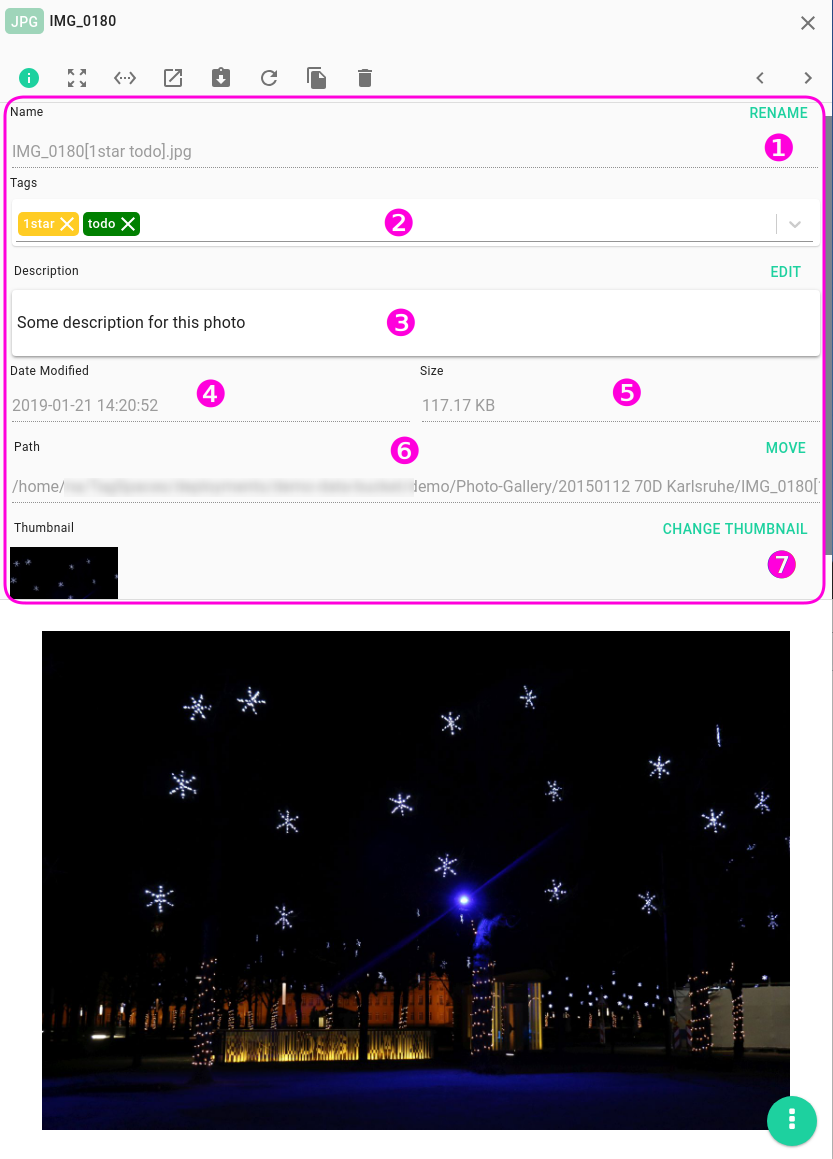
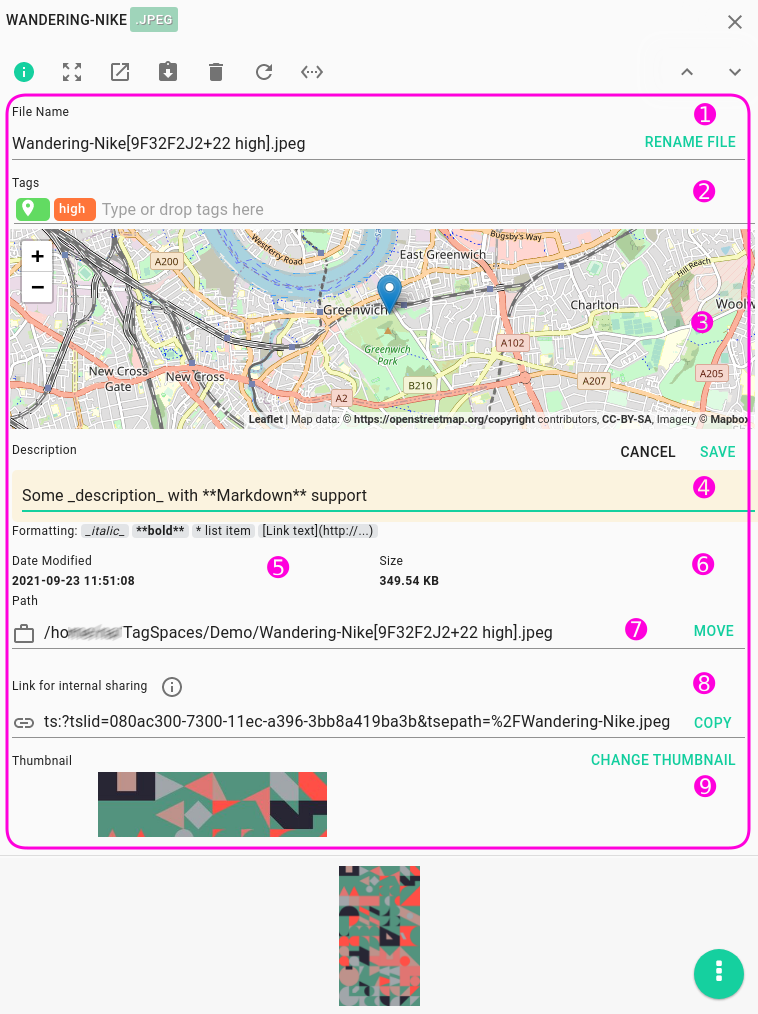
updating screenshot and ui area

diff --git a/docs/ui/userinterface.md b/docs/ui/userinterface.md
@@ -2,9 +2,7 @@
 title: User Interface Areas
 ---
 
-import { ProFeature } from '@site/src/components/CommonBlocks';
-
-## Start screen
+import { ProFeature, CenteredImage } from '@site/src/components/CommonBlocks';
 
 TagSpaces opens up as a single-window application that tries to make the best use of any space available, be it large wide screens, or small mobile displays. The user interface, devised along the guidelines of Google's material design specifications, is very adaptable. The application will look the same, regardless of the operating system, or platform it runs under.
 
@@ -16,20 +14,27 @@ This streamlined experience offers familiarity and an ease to use the applicatio
 
 The user interface of the application consists of the following main areas:
 
-- **(2) [Location manager](/ui/locations.md) / [Tag Library](/ui/taglibrary.md) / [Search](/search.md) areas** - Here you can manage the connected locations, the tag library or search for file and folders.
-- **(3) [Navigation](#browsing-area)** - Here you can switch the location or quickly navigate to parent folders.
-- **(4) [Browsing area](/browsing-files.md)** - This section is occupied by the so called **perspective** used for browsing files and folders.
-- **(5) [Common actions area](#properties-area)** - Here you can access common actions for the currently opened file or folder.
-- **(6) [File / Folder properties](#file-properties-area)** - Here you will find some properties for the currently opened file or folder.
-- **(7) [Preview area](#preview-area)** - In this area you can preview and/or edit the current file.
+- **(1) [Left Drawer](#left-drawer-area)** - Here you can open the [location manager](/ui/locations.md) or the [tag library](/ui/taglibrary.md) and access other important functionalities of the app like the [settings](/ui/settings).
+- **(2) [Navigation and Search](#browsing-area)** - Here you can open the search, switch the current location or navigate to a parent folders.
+- **(3) [Browsing area](/browsing-files.md)** - This section is occupied by the so called **perspective** used for browsing files and folders.
+- **(4) [Common actions area](#preview-area)** - Here you can access common actions for the currently opened file or folder.
+- **(5) [File / Folder properties](#file-properties-area)** - Here you will find some properties for the currently opened file or folder.
+- **(6) [Preview area](#preview-area)** - In this area you can preview and/or edit the current file.
 
-<!-- ## Vertical toolbar
+## Left Drawer Area
 
-New in version 3 of the app is the vertical toolbar located in the most left part of the application. The toolbar is designed to be alway visible. Here you can quickly access the creation of a new file, switch between the location manager, tag library and the search panels, open the app setting or enable the [dark mode](#dark-mode).
+The main drawer of the app is divided in three sub areas.
 
-![Area on the left of the app](/media/navigation-v3.png)
+The one located at the top shows the logo of the app and its current version. Clicking on the app logo will open the **About dialog** of the app, where you can find details about the licensing or check for new app versions. Right beneath the logo you find a bar containing two buttons. The first one called **New** will open a dialog where you can [create files](/creating-files) in TagSpaces. The second button "Connect a location" will trigger the process of connecting local or remote [locations](/ui/locations) in the app.
 
-> Clicking a second time on the icons for the location manager, the tag library or the search area will close the whole area contain these sections. This could be useful if you want to have more space for file browsing or previewing. -->
+The area at button contains six buttons. The button with the gear icon located at the left will open the app [settings](/ui/settings). With the button at the most right you can switch between the _light_ and _dark_ [themes](#dark-mode) of the app. If you are using the [TagSpaces Enterprise](https://www.tagspaces.org/products/enterprise/) product this button will be exchanged with a button, which will open the properties of the currently logged user.
+
+The with the four so called radio buttons in the middle, you can switch between the following areas in main part of the drawer:
+
+- **[Location manager](/ui/locations.md)**
+- **[Tag Library](/ui/taglibrary.md)**
+- **[Stored search queries](/search/#stored-search-queries)**
+- **Help and feedback** - here you can access the application help, suggest a feature or contact us.
 
 ## Browsing Area
 
@@ -37,7 +42,7 @@ The file browsing area normally takes up he majority of the user interface. This
 
 ![Screenshot showing the file browsing area](/media/browsing-area.png)
 
-The button **(1)** placed in the top left part of the browsing area toggles the left area of the app containing the location manager, the tag library, settings and other important parts of the app.
+The button **(1)** placed in the top left part of the browsing area toggles the [left drawer area](#left-drawer-area).
 
 **(2)** will open the [search](/search) input field.
 
@@ -75,7 +80,12 @@ When a file is opened, the main UI area splits into two, the rightmost page beco
 
 The following screenshot show a JPG file (photo) with name _IMG_0180_ **(1)** opened in the preview area. Here the preview area uses the full width of the application windows. This can be achieved by clicking on button **(5)** from the preview toolbar. The preview area can be closed by clicking the button with **X** icon located on the right to **(2)**
 
-![](/media/preview-area.png)
+<CenteredImage
+    caption="Screenshot of the file preview area"
+    src="/media/preview-area.png"
+    maxWidth="650px"
+    showCaption
+  />
 
 The file preview toolbar offer some actions, some of them are described bellow:
 
@@ -90,17 +100,24 @@ The file preview toolbar offer some actions, some of them are described bellow:
 
 ## File properties area
 
-Clicking the button with the **i** icon will open and respectively close the file properties area. Here you will find details about the currently opened files such as:
+Clicking the button with the **( i )** icon will open and respectively close the file properties area. Here you will find details about the currently opened files such as:
 
-![Picture showing the folder properties area](/media/file-properties-area.png)
+<CenteredImage
+    caption="Screenshot of the file properties area"
+    src="/media/file-properties-area.png"
+    maxWidth="650px"
+    showCaption
+  />
 
-- **(1) Name** - Shows the complete name of the file with its file extension. Clicking the **RENAME** button located above (1) with switch the area to edit box, where you can change the name of the file.
-- **(2) Tags** - Show the tags added to this file. Clicking on this area will open a dropdown where you can choose additional tags which will be assigned to this file.
-- **(3) Description** <ProFeature /> - Shows the description assigned to the current file. Clicking on the **EDIT** will turn the description area in a edit box, where you can adjust the description of this file. Plain text and markdown formats are supported.
-- **(4) Date modified** - Shows the date and the time when the file was last modified.
-- **(5) Size** - Shows the size of the current file. Hovering the field will show the size in bytes.
-- **(6) Path** - Shows the complete path of the file. Clicking on the **MOVE** button, will open a dialog, where you can move or copy the existing file to a new path.
-- **(7) Thumbnail** <ProFeature /> - This area shows the current thumbnail of the file. Clicking on the **CHANGE THUMBNAIL** button will open a dialog, where can choose a new thumbnail for the file. The application supports adding a custom thumbnail to every file type.
+- **(1) File Name** - Shows the complete name of the file together with its extension. Clicking the **RENAME** button or just on the file name (1) will allow you to change the name of the file.
+- **(2) Tags** - Show the tags added to the file. Clicking on this area will open a dropdown where you can choose additional tags which will be assigned to this file. You can also drop tags from the tag library or other files or folders here.
+- **(3) Map with geo-tag** - if the files has attached geo-tag, a map will displayed showing the exact location of the geo tag. The used map is configurable in the [settings](/ui/settings/#advanced) of the app.
+- **(4) Description** <ProFeature /> - Shows the description assigned to the current file. Clicking on the **EDIT** will turn the description area in a edit box, where you can adjust the description of this file. Plain text and Markdown formats are supported.
+- **(5) Date Modified** - Shows the date and the time when the file was last modified.
+- **(6) Size** - Shows the size of the current file.
+- **(7) Path** - Shows the complete path of the file. If the file is located on an object storage location, a cloud icon instead of the a suitcase will be shown in front of the path. Clicking on the **MOVE** button, will open a dialog, where you can move or copy the existing file to a new path.
+- **(8) Links for sharing** - will show one or two fields representing links which you can [share](/sharing) files with other users.
+- **(9) Thumbnail** <ProFeature /> - This area shows the current thumbnail of the file. Clicking on the **CHANGE THUMBNAIL** button will open a dialog, where can choose a new thumbnail for the file. The application supports adding a custom thumbnail to every file type.
 
 :::tip
 The description field of files and folders supports basic [**markdown syntax**](https://en.wikipedia.org/wiki/Markdown).
@@ -108,9 +125,14 @@ The description field of files and folders supports basic [**markdown syntax**](
 
 ## Folder properties area
 
-The folder properties is very similar to the file properties area. It can be opened and closed in the same way by the button with the **i** icon.
+The folder properties is very similar to the file properties area. It can be opened and closed in the same way by the button with the <nobr>**( i )**</nobr> icon.
 
-![Picture showing the folder properties area](/media/folder-properties-area.png)
+<CenteredImage
+    caption="Screenshot of the folder properties area"
+    src="/media/folder-properties-area.png"
+    maxWidth="650px"
+    showCaption
+  />
 
 - **(1) Name** - Shows the complete name of the folder. Clicking the **RENAME** button located above (1) with switch the area to edit box, where you can change the name of the folder.
 - **(2) Tags** - Show the tags added to this folder. Clicking on this area will open a dropdown where you can choose additional tags which will be assigned to this folder.

diff --git a/docs/ui/locations.md b/docs/ui/locations.md
@@ -179,7 +179,7 @@ This feature is useful if your location has large folders containing many files 
 <CenteredImage
     caption="Manage the ignore pattern in the location settings"
     src="/media/location-ignore-patterns.png"
-    maxWidth="500px"
+    maxWidth="600px"
     showCaption
   />
 
@@ -200,7 +200,7 @@ Choosing the tagging method for all locations at once is limiting and kind of in
 <CenteredImage
     caption="Set the file tagging method per location"
     src="/media/file-tagging-method-per-location.png"
-    maxWidth="500px"
+    maxWidth="600px"
     showCaption
   />
 

diff --git a/docs/sharing.md b/docs/sharing.md
@@ -13,6 +13,7 @@ The first one which was introduced in version 3.8 is called "Link for internal s
 <CenteredImage
     caption="Sharing link types in the entry properties"
     src="/media/sharing-files.png"
+    maxWidth="700px"
     showCaption
   />
 
@@ -21,6 +22,7 @@ Once copied to the clipboard with the **COPY**-button, the links can be shared f
 <CenteredImage
     caption="Open shared links in TagSpaces"
     src="/media/open-shared-links.png"
+    maxWidth="500px"
     showCaption
   />
 
